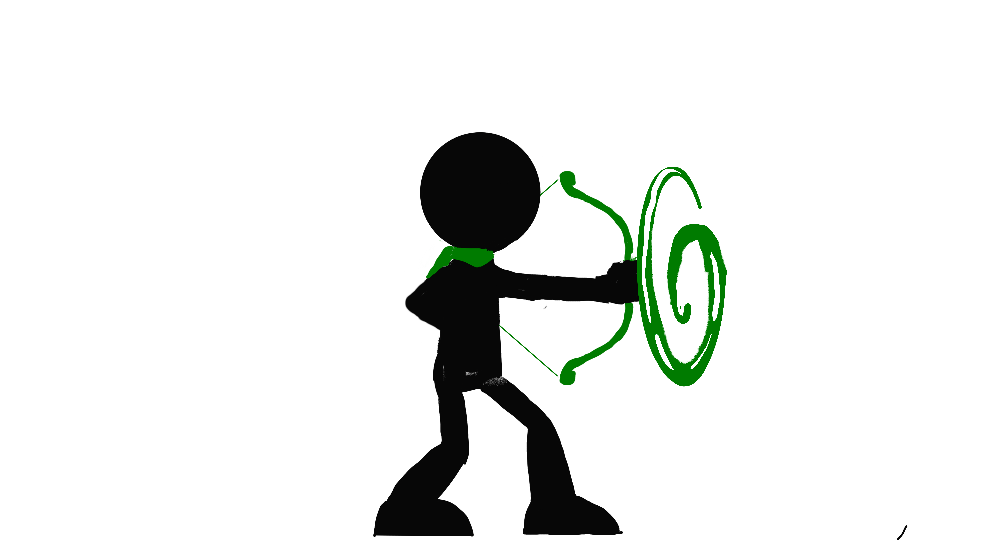
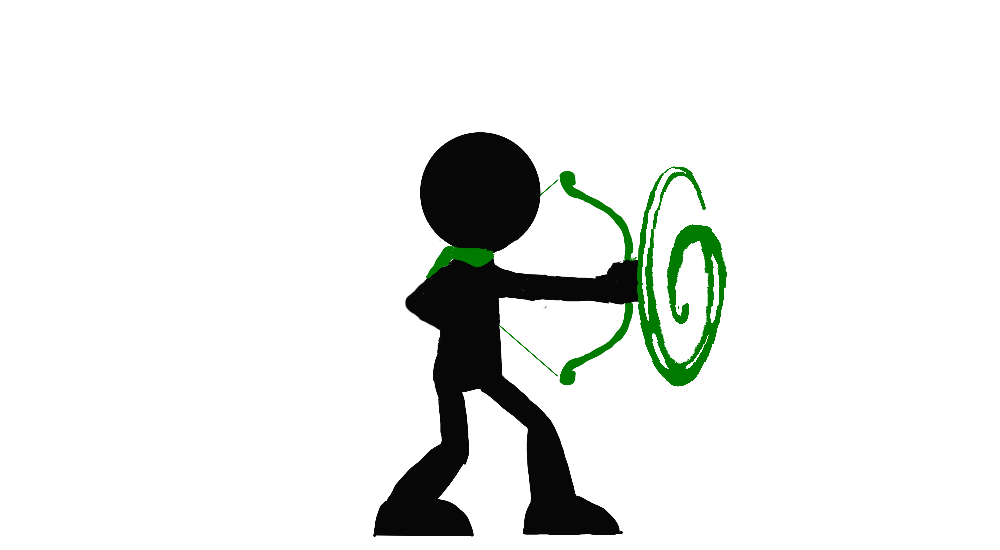
add arrow animation after archer shooting

Changed region(s): [[0.62, 0.5255, 0.744, 0.7109], [0.62, 0.3091, 0.713, 0.4636], [0.496, 0.68, 0.527, 0.7109]]

diff --git a/src/PythonGame/Classes/Archer.py b/src/PythonGame/Classes/Archer.py
@@ -3,16 +3,96 @@ from pygame.locals import *
 from Classes.BaseClass import Character
 
 
+CURRENT_PATH = os.getcwd()
+#arrow
+
+
 class Archer(Character):
-    def __init__(self, type, x, y, scale, speed, screen):
+    def __init__(self, type, x, y, scale, speed, screen, target, arrow_group):
         super().__init__(type, x, y, scale, speed, screen)
-        self.atk_cd_val = 0
+        self.target = target
+        self.atk_cd_val = 50
+        self.arrow_gruop = arrow_group
     
 
     def shoot(self):
-        if self.shoot_cooldown == 0 and self.ammo > 0:
-            self.shoot_cooldown = 20
-            bullet = Bullet(self.rect.centerx + (0.6 * self.rect.size[0] * self.direction), self.rect.centery, self.direction)
-            bullet_group.add(bullet)
-            #reduce ammo
-            self.ammo -= 1
+        if self.attack_cooldown == 0:
+            self.attack_cooldown = self.atk_cd_val
+            arrow = Arrow(self.rect.centerx + (0.2 * self.rect.size[0] * self.direction), self.rect.centery, self.direction)
+            self.arrow_gruop.add(arrow)
+
+    
+    #update character actions
+    def update(self):
+        self.update_animation()
+        if self.health <= 0:
+            self.health = 0
+            self.speed = 0
+            self.alive = False
+            self.update_action(5)#5: death
+        elif self.hit == True:
+            self.update_action(4)#4: hit
+        elif self.in_air:
+            self.update_action(2)#2: jump
+        elif self.moving_left or self.moving_right:
+            self.update_action(1)#1: run
+        elif self.attacking:
+            self.update_action(3)#3: attack
+            if self.frame_index == len(self.animation_list[self.action]) - 1:
+                self.shoot()
+        else:
+            self.update_action(0)#0: idle
+        self.move()
+
+    def update_animation(self):
+		#update animation
+        ANIMATION_COOLDOWN = 100
+        #update image depending on current frame
+        self.image = self.animation_list[self.action][self.frame_index]
+        #check if enough time has passed since the last update
+        if pygame.time.get_ticks() - self.update_time > ANIMATION_COOLDOWN:
+            self.update_time = pygame.time.get_ticks()
+            self.frame_index += 1
+        #if the animation has run out the reset back to the start
+        if self.frame_index >= len(self.animation_list[self.action]):
+            if self.alive == False:
+                self.frame_index = len(self.animation_list[self.action]) - 1
+            else:
+                self.frame_index = 0
+                #check if an attack was executed
+                if self.action == 1 or self.action == 2:
+                    self.attacking = False
+                if self.action == 3:
+                #     if self.attack_cooldown == 0:
+                #         self.target.health -= 10
+                #         self.target.hit = True
+                    self.attacking = False
+                    self.attack_cooldown = self.atk_cd_val
+                #check if damage was taken
+                if self.action == 4:
+                    self.hit = False
+                    #if the player was in the middle of an attack, then the attack is stopped
+                    self.attacking = False
+                    self.attack_cooldown = self.atk_cd_val
+        
+
+
+class Arrow(pygame.sprite.Sprite):
+    def __init__(self, x, y, direction):
+        pygame.sprite.Sprite.__init__(self)
+        arrow_img = pygame.image.load(CURRENT_PATH + '\\src\\PythonGame\\Assets\\Character_img\\Archer\\Arrow\\0.png').convert_alpha()
+        self.speed = 10
+        self.image = arrow_img
+        self.rect = self.image.get_rect()
+        self.rect.center = (x, y)
+        self.direction = direction
+
+    def update(self, screen_width):
+        self.rect.x += (self.direction * self.speed)
+        if self.rect.right < 0 or self.rect.left > screen_width:
+            self.kill()
+
+    def draw(self, surface):
+        # pygame.draw.rect(self.screen, (255, 150, 100), self.hit_box)
+        print("here")
+        self.screen.blit(pygame.transform.flip(self.image, self.flip, False), self.rect)

diff --git a/src/PythonGame/Classes/BaseClass.py b/src/PythonGame/Classes/BaseClass.py
@@ -25,8 +25,10 @@ class Character(pygame.sprite.Sprite):
         self.health = 100
         self.frame_index = 0
         self.action = 0
+        self.atk_cd_val = 50
         self.animation_list = []
         self.update_time = pygame.time.get_ticks()
+
 
         #load all images for the players
         animation_types = ['Idle', 'Run', 'Jump', 'Attack', 'Hit', 'Death']
@@ -37,7 +39,7 @@ class Character(pygame.sprite.Sprite):
             #count number of files in the folder
             num_of_frames = len(os.listdir(ANIMATION_PATH + "\\{}\\{}".format(self.char_type,animation)))
             for i in range(num_of_frames):
-                img = pygame.image.load(ANIMATION_PATH + "\\{}\\{}\\{}".format(self.char_type,animation,i) + ".png")
+                img = pygame.image.load(ANIMATION_PATH + "\\{}\\{}\\{}".format(self.char_type,animation,i) + ".png").convert_alpha()
                 img = pygame.transform.scale(img, (int(img.get_width() * scale), int(img.get_height() * scale)))
                 temp_list.append(img)
             self.animation_list.append(temp_list)
@@ -129,10 +131,26 @@ class Character(pygame.sprite.Sprite):
             self.frame_index += 1
         #if the animation has run out the reset back to the start
         if self.frame_index >= len(self.animation_list[self.action]):
-            if self.action == 3:
+            if self.alive == False:
                 self.frame_index = len(self.animation_list[self.action]) - 1
             else:
                 self.frame_index = 0
+                #check if an attack was executed
+                if self.action == 1 or self.action == 2:
+                    self.attacking = False
+                if self.action == 3:
+                #     if self.attack_cooldown == 0:
+                #         self.target.health -= 10
+                #         self.target.hit = True
+                            
+                    self.attacking = False
+                    self.attack_cooldown = self.atk_cd_val
+                #check if damage was taken
+                if self.action == 4:
+                    self.hit = False
+                    #if the player was in the middle of an attack, then the attack is stopped
+                    self.attacking = False
+                    self.attack_cooldown = self.atk_cd_val
 
 
     def draw(self):

diff --git a/src/PythonGame/main.py b/src/PythonGame/main.py
@@ -33,15 +33,15 @@ BLACK = (0, 0, 0)
 CURRENT_PATH = os.getcwd()
 #background
 BG_PATH = CURRENT_PATH + "\\src\\PythonGame\\Assets\\Background"
-bg_img = pygame.image.load(BG_PATH + "\\paper.jpg")
+bg_img = pygame.image.load(BG_PATH + "\\paper.jpg").convert_alpha()
 bg_img = pygame.transform.scale(bg_img,SIZE)
 scale = 2
-floor_img = pygame.image.load(BG_PATH + "\\ruler20.png")
+floor_img = pygame.image.load(BG_PATH + "\\ruler20.png").convert_alpha()
 floor_img = pygame.transform.scale(floor_img, (int(floor_img.get_width() * scale), int(floor_img.get_height() * scale)))
 #button images
 BTN_PATH = CURRENT_PATH + "\\src\\PythonGame\\Assets\\Button_img"
-start_img = pygame.image.load(BTN_PATH + "\\start_btn.png")
-exit_img = pygame.image.load(BTN_PATH + "\\exit_btn.png")
+start_img = pygame.image.load(BTN_PATH + "\\start_btn.png").convert_alpha()
+exit_img = pygame.image.load(BTN_PATH + "\\exit_btn.png").convert_alpha()
 
 #create buttons
 start_button = Button.Button(WIDTH/4 - start_img.get_width()/2, HEIGHT/2, start_img, 1.5)
@@ -60,15 +60,15 @@ def draw_health_bar(health, x, y):
 
 #create sprite groups
 enemy_group = pygame.sprite.Group()
+arrow_group = pygame.sprite.Group()
 
 #Create player
-enemy1 = Enemy('Swordsman', WIDTH/2, 800, 0.75, 3, screen)
+enemy1 = Enemy('Swordsman', WIDTH/2, 800, 0.3, 3, screen)
 # enemy2 = Enemy('Player', WIDTH/2 + 50, 800, 0.3, 3, screen)
 enemy_group.add(enemy1)
 # enemy_group.add(enemy2)
-print(enemy_group)
-# player = Swordsman('Swordsman', WIDTH/3, 800, 0.75, 8, screen, enemy1)
-player = Archer('Archer', WIDTH/3, 800, 1, 0.75, screen)
+player = Swordsman('Swordsman', WIDTH/3, 800, 0.3, 10, screen, enemy1)
+# player = Archer('Archer', WIDTH/3, 800, 0.75, 10, screen, enemy1, arrow_group)
 
 
 #=====INITIALIZE======
@@ -96,6 +96,10 @@ while running:
                 enemy.draw()
         player.update()
         player.draw()
+
+        arrow_group.update(WIDTH)
+        arrow_group.draw(screen)
+
     
     for event in pygame.event.get():
         if event.type == pygame.QUIT:

diff --git a/src/PythonGame/Classes/Swordsman.py b/src/PythonGame/Classes/Swordsman.py
@@ -6,8 +6,8 @@ from Classes.BaseClass import Character
 class Swordsman(Character):
     def __init__(self, type, x, y, scale, speed, screen, target):
         super().__init__(type, x, y, scale, speed, screen)
+        self.atk_cd_val = 30 
         self.target = target
-        self.atk_cd_val = 0
 
     def update_animation(self):
         #update animation

diff --git a/src/PythonGame/Classes/Enemy.py b/src/PythonGame/Classes/Enemy.py
@@ -14,7 +14,7 @@ class Enemy(Character):
         self.vision = pygame.Rect(0, 0, 350, 20)
         self.vision_x = self.vision.x
         self.attack_box_multiplier = 1.5
-        self.atk_cd_val = 30
+        self.atk_cd_val = 50
         self.tile_size = 100
         self.original_speed = self.speed
         self.increase_speed = 5

diff --git a/src/PythonGame/Classes/test.py b/src/PythonGame/Classes/test.py
@@ -1,0 +1,1 @@
+print(3%7)
